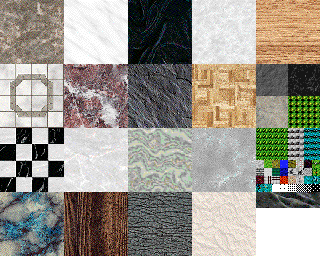
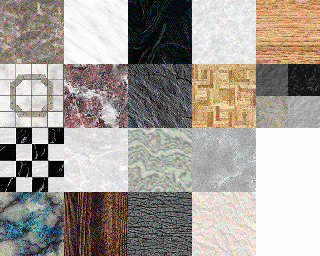
Remove map and text bar patterns, move dither patterns to separate sheet

Changed region(s): [[0.7812, 0.375, 1.0, 0.8125]]

diff --git a/src/scenedit/scen.graphics.cpp b/src/scenedit/scen.graphics.cpp
@@ -80,7 +80,6 @@ sf::Texture missiles_gworld;
 sf::Texture status_gworld;
 sf::Texture pc_gworld;
 const sf::Color hilite_colour = {0xff, 0x00, 0x80, 0x40};
-extern tessel_ref_t map_pat[];
 
 // begin new stuff
 rectangle blue_button_from = {120,235,134,251};
@@ -97,31 +96,6 @@ rectangle right_button_base = {RIGHT_AREA_UL_Y,RIGHT_AREA_UL_X,17,RIGHT_AREA_UL_
 rectangle terrain_rect = {0,0,340,272};
 std::string current_string[2];
 extern rectangle terrain_rects[256];
-
-short map_pats[220] = {50,50,1,1,1,6,6,6,6,6,
-	6,6,6,6,6,6,6,6,2,2,
-	2,2,2,2,2,2,2,2,2,2,
-	2,2,4,4,4,4,4,4,4,4,
-	4,4,4,4,4,4,3,3,3,3,
-	3,3,3,3,3,3,3,3,3,0, // 50
-	0,0,0,0,0,0,0,23,23,23,
-	15,15,50,50,0,0,0,0,0,7,
-	7,8,8,14,14,9,9,9,5,5,
-	0,0,0,0,0,0,0,0,0,0,
-	18,18,0,0,0,0,0,0,0,0, // 100
-	22,22,0,0,0,0,0,0,0,0,
-	0,0,0,10,0,0,0,0,0,0,
-	0,0,0,0,0,0,0,0,0,0,
-	0,0,0,0,0,0,0,0,0,0,
-	0,0,0,0,0,0,0,11,0,0, // 150
-	0,0,0,12,0,0,0,0,0,0,
-	0,0,0,0,0,0,0,0,0,0,
-	0,0,0,0,0,0,0,0,0,0,
-	0,0,0,0,0,0,0,0,0,0,
-	0,0,0,0,0,0,0,0,0,0, // 200
-	0,0,0,0,0,0,0,0,0,0
-};
-
 
 unsigned char small_what_drawn[64][64];
 extern bool small_any_drawn;
@@ -1225,46 +1199,23 @@ void draw_one_tiny_terrain_spot (short i,short j,ter_num_t terrain_to_draw,short
 			from_rect = calc_rect(picture_wanted % 10, picture_wanted / 10);
 		}
 		rect_draw_some_item(*source_gworld, from_rect, ter_draw_gworld, dest_rect);
-	} else switch(picture_wanted) {
-			
-		case 0: case 1: case 73: case 72:
-			tileImage(ter_draw_gworld, dest_rect,map_pat[0]);
-			break;
-		case 2: case 3: case 4:
-			tileImage(ter_draw_gworld, dest_rect,map_pat[1]);
-			break;
-			
-		default:
-			if((picture_wanted < 170) && (map_pats[picture_wanted] > 0)) {
-				tileImage(ter_draw_gworld, dest_rect,map_pat[map_pats[picture_wanted]]);
-			}
-			else if(picture_wanted >= 1000)	{
-				sf::Texture* from_gw;
-				graf_pos_ref(from_gw, from_rect) = spec_scen_g.find_graphic(picture_wanted % 1000);
-				from_rect.right = from_rect.left + 12;
-				from_rect.bottom = from_rect.top + 12;
-				picture_wanted /= 1000; picture_wanted--;
-				from_rect.offset((picture_wanted / 3) * 12, (picture_wanted % 3) * 12);
-				rect_draw_some_item(*from_gw, from_rect, ter_draw_gworld, dest_rect);
-			}
-			else if(picture_wanted >= 960)	{
-				picture_wanted -= 960;
-				if(picture_wanted == 0) tileImage(ter_draw_gworld, dest_rect,map_pat[13]);
-				else if(picture_wanted == 4) tileImage(ter_draw_gworld, dest_rect,map_pat[21]);
-				else if(picture_wanted == 7) tileImage(ter_draw_gworld, dest_rect,map_pat[20]);
-				else if(picture_wanted == 8) tileImage(ter_draw_gworld, dest_rect,map_pat[19]);
-				else if(picture_wanted == 9) tileImage(ter_draw_gworld, dest_rect,map_pat[20]);
-				else if(picture_wanted == 10) tileImage(ter_draw_gworld, dest_rect,map_pat[19]);
-				else {
-					from_rect.offset(12 * 20, (picture_wanted - 960) * 12);
-					rect_draw_some_item(small_ter_gworld, from_rect, ter_draw_gworld, dest_rect);
-				}
-			}
-			else {
-				from_rect.offset((picture_wanted % 20) * 12,(picture_wanted / 20) * 12);
-				rect_draw_some_item(small_ter_gworld, from_rect, ter_draw_gworld, dest_rect);
-			}
-			break;
+	} else {
+		if(picture_wanted >= 1000) {
+			sf::Texture* from_gw;
+			graf_pos_ref(from_gw, from_rect) = spec_scen_g.find_graphic(picture_wanted % 1000);
+			from_rect.right = from_rect.left + 12;
+			from_rect.bottom = from_rect.top + 12;
+			picture_wanted /= 1000; picture_wanted--;
+			from_rect.offset((picture_wanted / 3) * 12, (picture_wanted % 3) * 12);
+			rect_draw_some_item(*from_gw, from_rect, ter_draw_gworld, dest_rect);
+		} else if(picture_wanted >= 960) {
+			picture_wanted -= 960;
+			from_rect.offset(12 * 20, (picture_wanted - 960) * 12);
+			rect_draw_some_item(small_ter_gworld, from_rect, ter_draw_gworld, dest_rect);
+		} else {
+			from_rect.offset((picture_wanted % 20) * 12,(picture_wanted / 20) * 12);
+			rect_draw_some_item(small_ter_gworld, from_rect, ter_draw_gworld, dest_rect);
+		}
 	}
 	if(mouse_spot.x >= 0 && mouse_spot.y >= 0) {
 		location where_draw(i,j);

diff --git a/src/boe.town.cpp b/src/boe.town.cpp
@@ -51,37 +51,6 @@ extern sf::RenderTexture map_gworld;
 extern sf::Texture small_ter_gworld;
 // In the 0..65535 range, this colour was {65535,65535,52428}
 sf::Color parchment = {255,255,205};
-extern tessel_ref_t map_pat[];
-
-// TODO: Add blue cave graphics to these arrays?
-unsigned char map_pats[256] = {
-	1,1,2,2,2,7,7,7,7,7, ////
-	7,7,7,7,7,7,7,7,3,3,
-	3,3,3,3,3,3,3,3,3,3,
-	3,3,5,5,5,5,5,5,5,5,
-	5,5,5,5,5,5,4,4,4,4,
-	4,4,4,4,4,4,4,4,4,0, // 50
-	0,0,0,0,0,0,0,24,24,24,
-	16,16,25,25,0,0,0,0,18,8,
-	8,9,2,15,15,10,10,10,6,0,
-	0,0,0,0,0,0,0,0,0,0,
-	19,0,0,0,0,0,0,0,0,0, // 100
-	23,0,0,0,0,0,0,0,0,0,
-	0,0,0,11,0,0,0,0,0,0,
-	0,0,0,0,0,0,0,0,0,0,
-	0,0,0,0,0,0,0,0,0,0,
-	0,0,0,0,0,0,0,12,0,0, // 150
-	0,0,0,13,0,0,0,0,0,0,
-	0,0,0,0,0,0,0,0,0,0,
-	0,18,0,0,0,0,0,0,0,0,
-	0,0,0,0,0,0,0,0,0,0,
-	0,0,0,0,0,0,0,0,0,0, // 200
-	0,0,0,0,0,17,17,0,17,17,
-	17,17,17,17,17,17,0,0,0,0,
-	0,0,0,0,0,0,0,0,0,0,
-	0,0,0,0,0,0,0,0,0,0,
-	0,0,0,0,0,0};// 250
-unsigned char anim_map_pats[18] = {14,0,0,0,22, 0,0,21,20,21, 20,0,0,0,0, 0,0,0};
 
 long pause_dummy;
 
@@ -1502,22 +1471,13 @@ void draw_map(bool need_refresh) {
 							custom_from = calc_rect(pic % 10, pic / 10);
 							rect_draw_some_item(*src_gw, custom_from, map_gworld, draw_rect);
 						}
-					} else switch(pic >= 960 ? anim_map_pats[pic - 960] : map_pats[pic]) {
-						case 0: case 10: case 11:
-							if(univ.scenario.ter_types[what_ter].picture < 960)
-								ter_temp_from.offset(12 * (univ.scenario.ter_types[what_ter].picture % 20),
-													 12 * (univ.scenario.ter_types[what_ter].picture / 20));
-							else ter_temp_from.offset(12 * 20,
-													  12 * (univ.scenario.ter_types[what_ter].picture - 960));
-							rect_draw_some_item(small_ter_gworld,ter_temp_from,map_gworld,draw_rect);
-							break;
-							
-						default:
-							if(((pic >= 960) ? anim_map_pats[pic - 960] : map_pats[pic]) < 30) {
-								tileImage(map_gworld, draw_rect,map_pat[((pic >= 960) ? anim_map_pats[pic - 960] : map_pats[pic]) - 1]);
-								break;
-							}
-							break;
+					} else {
+						if(univ.scenario.ter_types[what_ter].picture < 960)
+							ter_temp_from.offset(12 * (univ.scenario.ter_types[what_ter].picture % 20),
+												 12 * (univ.scenario.ter_types[what_ter].picture / 20));
+						else ter_temp_from.offset(12 * 20,
+												  12 * (univ.scenario.ter_types[what_ter].picture - 960));
+						rect_draw_some_item(small_ter_gworld,ter_temp_from,map_gworld,draw_rect);
 					}
 				}
 			}

diff --git a/src/tools/graphtool.cpp b/src/tools/graphtool.cpp
@@ -31,12 +31,9 @@
 using boost::math::constants::pi;
 
 rectangle bg_rects[21];
-rectangle map_pat_rects[30];
-rectangle bw_rects[6];
 tessel_ref_t bg[21];
-tessel_ref_t map_pat[30];
 tessel_ref_t bw_pats[6];
-sf::Texture bg_gworld;
+sf::Texture bg_gworld, bw_gworld;
 bool use_win_graphics = false;
 sf::Shader maskShader;
 extern fs::path progDir;
@@ -109,41 +106,17 @@ void init_graph_tool(){
 	}
 	rectangle tmp_rect = bg_rects[19];
 	tmp_rect.offset(0, 64);
-	bg_rects[0] = bg_rects[1] = bg_rects[18] = map_pat_rects[7] = tmp_rect;
+	bg_rects[0] = bg_rects[1] = bg_rects[18] = bg_rects[7] = tmp_rect;
 	bg_rects[0].right -= 32;
 	bg_rects[0].bottom -= 32;
 	bg_rects[1].left += 32;
 	bg_rects[1].bottom -= 32;
 	bg_rects[18].right -= 32;
 	bg_rects[18].top += 32;
-	map_pat_rects[7].left += 32;
-	map_pat_rects[7].top += 32;
-	tmp_rect.offset(0, 64);
-	map_pat_rects[8] = map_pat_rects[23] = map_pat_rects[26] = tmp_rect;
-	map_pat_rects[8].right -= 32;
-	map_pat_rects[8].bottom -= 32;
-	map_pat_rects[23].left += 32;
-	map_pat_rects[23].right -= 16;
-	map_pat_rects[23].bottom -= 32;
-	map_pat_rects[26].left += 32 + 16;
-	map_pat_rects[26].bottom -= 32;
-	tmp_rect.offset(0, 64);
-	bg_rects[7] = tmp_rect;
-	bg_rects[7].bottom = bg_rects[7].top + 16;
-	tmp_rect.offset(0, -32);
-	tmp_rect.right = tmp_rect.left + 8;
-	tmp_rect.bottom = tmp_rect.top + 8;
-	for(i = 0; i < 26; i++){
-		map_pat_rects[map_i[i]] = tmp_rect;
-		map_pat_rects[map_i[i]].offset(8 * (i % 8),8 * (i / 8));
-		// Note: 8 * (i / 8) != i, despite appearances, due to integer rounding
-	}
-	tmp_rect = map_pat_rects[29];
-	for(i = 0; i < 6; i++) {
-		tmp_rect.offset(8, 0);
-		bw_rects[i] = tmp_rect;
-	}
+	bg_rects[7].left += 32;
+	bg_rects[7].top += 32;
 	bg_gworld.loadFromImage(*ResMgr::get<ImageRsrc>("pixpats"));
+	bw_gworld.loadFromImage(*ResMgr::get<ImageRsrc>("bwpats"));
 	register_main_patterns();
 }
 
@@ -1036,14 +1009,13 @@ void flushTessels(sf::Texture& alteredImg) {
 }
 
 static void register_main_patterns() {
-	for(int i = 0; i < 30; i++) {
-		if(i < 21) {
-			if(i < 6) {
-				bw_pats[i] = prepareForTiling(bg_gworld, bw_rects[i]);
-			}
-			bg[i] = prepareForTiling(bg_gworld, bg_rects[i]);
+	rectangle bw_rect = {0,0,8,8};
+	for(int i = 0; i < 21; i++) {
+		if(i < 6) {
+			bw_pats[i] = prepareForTiling(bw_gworld, bw_rect);
+			bw_rect.offset(8,0);
 		}
-		map_pat[i] = prepareForTiling(bg_gworld, map_pat_rects[i]);
+		bg[i] = prepareForTiling(bg_gworld, bg_rects[i]);
 	}
 }
 

diff --git a/src/scenedit/scen.keydlgs.cpp b/src/scenedit/scen.keydlgs.cpp
@@ -127,7 +127,7 @@ short choose_background(short cur_choice, cDialog* parent) {
 			to = {0x00, 0x00, 0x80};
 		else if(which == 11)
 			to = {0xC0, 0x40, 0xFF};
-		else if(which <= 5 || which == 7 || which == 9 || which == 15)
+		else if(which <= 5 || which == 9 || which == 15)
 			to = sf::Color::White;
 		bg_dlg["title"].setColour(to);
 		for(int i = 0; i < 21; i++)

diff --git a/src/boe.graphics.cpp b/src/boe.graphics.cpp
@@ -54,7 +54,6 @@ extern std::shared_ptr<cButton> done_btn, help_btn;
 extern sf::Texture bg_gworld;
 extern rectangle sbar_rect,item_sbar_rect,shop_sbar_rect,startup_top;
 extern rectangle talk_area_rect, word_place_rect;
-extern tessel_ref_t map_pat[];
 extern location store_anim_ul;
 extern long register_flag;
 extern long ed_flag,ed_key;
